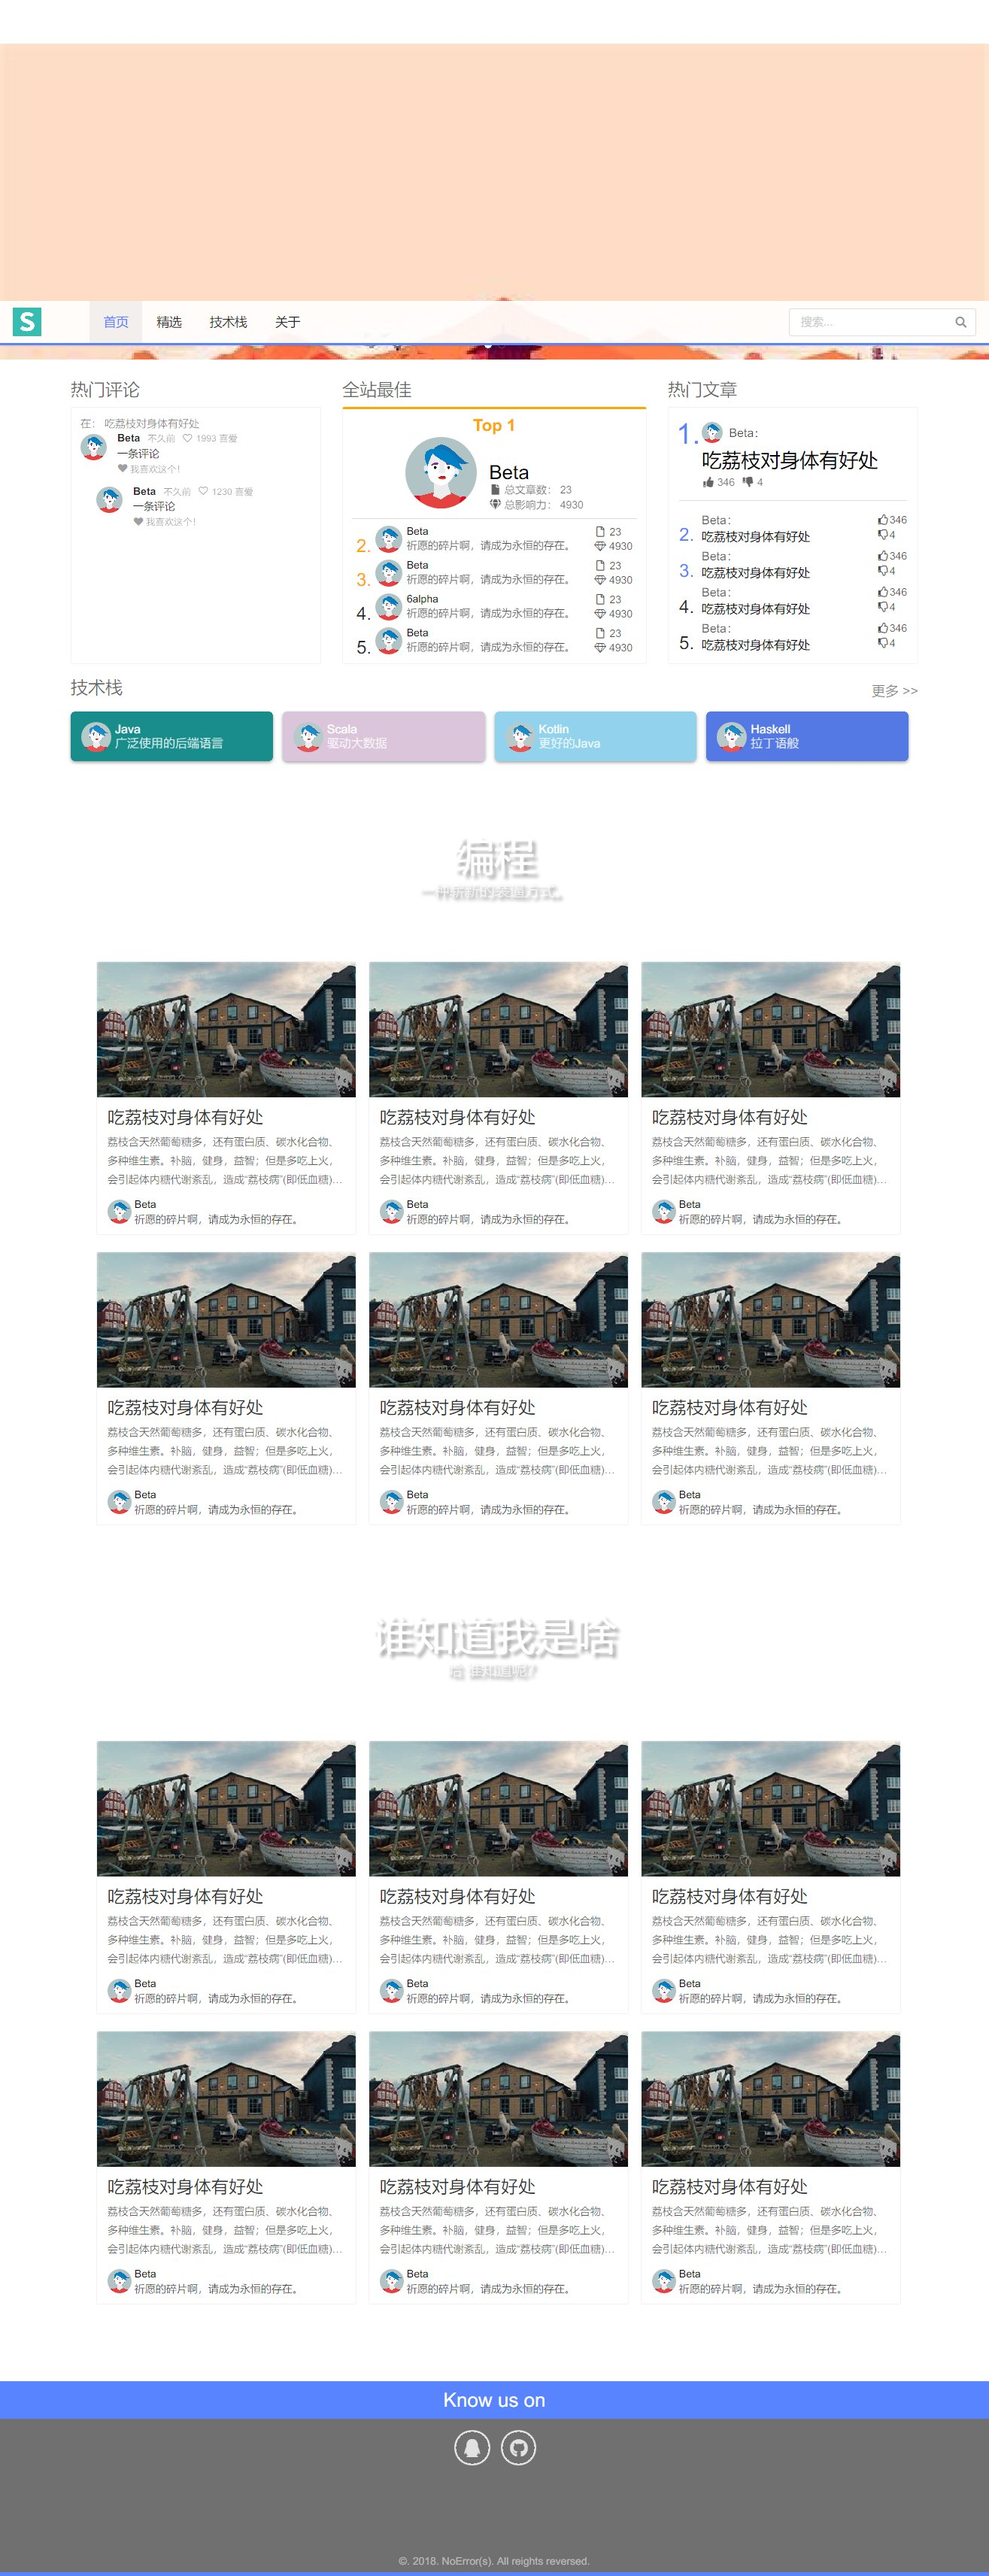
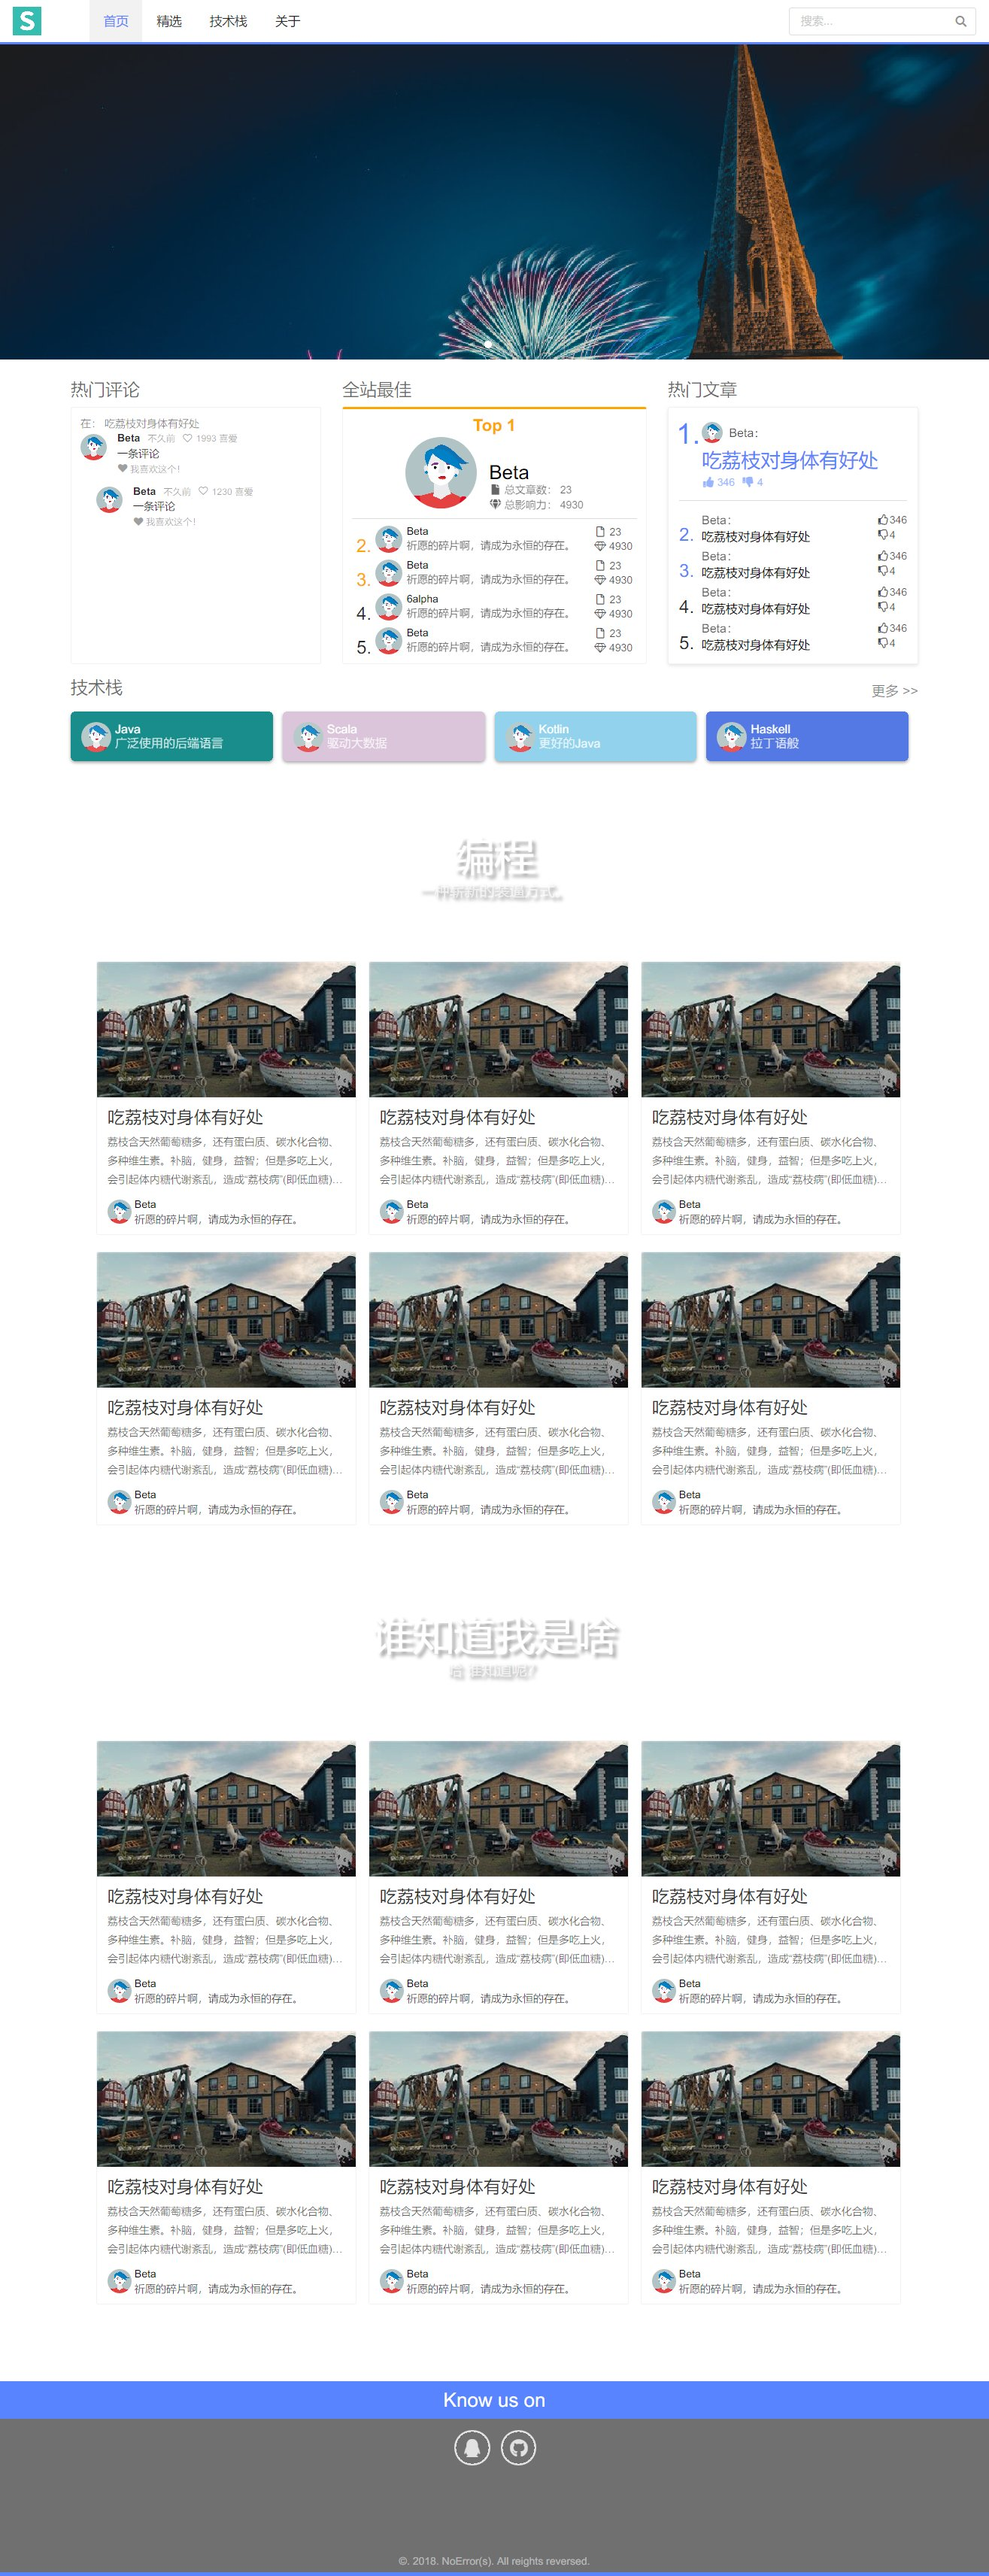
CornerBar呈现完成。

Changed region(s): [[0.0, 0.0, 1.0, 0.1874]]

diff --git a/src/components/CornerBar.vue b/src/components/CornerBar.vue
@@ -1,0 +1,113 @@
+<template>
+  <div class="corner-bar">
+    <div class="ad-switch">
+      <button class="button">
+        <div class="svg">
+          <svg xmlns="http://www.w3.org/2000/svg" width="100%" height="100%" viewBox="0 0 10 10" preserveAspectRatio="none">
+            <path d="M 0 0 L 10 5.2" stroke-width="1.2" />
+          </svg>
+        </div>
+        <span class="text">AD</span>
+      </button>
+    </div>
+    <div class="b2t">
+      <button class="button" data-tooltip="回到顶部" data-inverted="" data-position="left center">
+        <i class="up arrow icon"></i>
+      </button>
+    </div>
+  </div>
+</template>
+
+<style scoped>
+  .corner-bar .ad-switch .button .text {
+    width: 40px;
+    font-weight: 600;
+  }
+
+  .corner-bar .ad-switch .button .svg {
+    position: absolute;
+    top: 26px;
+    left: 12px;
+    height: 20px;
+    width: 20px;
+    overflow: hidden;
+    display: none;
+    opacity: .7;
+  }
+
+  .corner-bar .ad-switch .button .svg svg {
+    stroke: black
+  }
+
+  .corner-bar>div>button {
+    height: 44px;
+    width: 44px;
+  }
+
+  .corner-bar {
+    position: fixed;
+    bottom: 12px;
+    right: 12px;
+    z-index: 400;
+  }
+
+  .corner-bar button {
+    opacity: .7;
+    margin-top: 10px;
+    background-color: white;
+    border: none;
+    border-radius: 4px;
+    box-shadow: 0 2px 6px 0 hsla(0, 0%, 0%, 0.4);
+    overflow: hidden;
+  }
+
+  .corner-bar button * {
+    margin-left: auto;
+    margin-right: auto;
+  }
+
+  .corner-bar button:hover {
+    opacity: 1;
+    color: var(--theme-color);
+    background-color: white;
+    cursor: pointer;
+    box-shadow: 0 2px 6px 0 hsla(0, 0%, 0%, 0.4);
+  }
+
+  .corner-bar .b2t {
+    display: none
+  }
+
+</style>
+
+<script>
+  export default {
+    mounted: function () {
+      let b2t = $('.corner-bar .b2t')
+      let adSwitch = $('.corner-bar .ad-switch')
+      adSwitch.mouseenter(function () {
+        $('.corner-bar .ad-switch .button .svg svg').css('stroke', 'var(--theme-color)')
+      })
+      adSwitch.mouseleave(function () {
+        $('.corner-bar .ad-switch .button .svg svg').css('stroke', 'black')
+      })
+      adSwitch.click(function () {
+        $('.corner-bar .ad-switch .button .svg').show()
+      })
+      b2t.click(function () {
+        $('html, body').animate({
+          scrollTop: 0
+        }, 600);
+      })
+      $(window).on('scroll', function () {
+        let scrollValue = $(window).scrollTop();
+        if (scrollValue > 600) {
+          b2t.fadeIn();
+        } else {
+          b2t.hide();
+        }
+      });
+    }
+  }
+
+</script>

diff --git a/src/components/Slide.vue b/src/components/Slide.vue
@@ -85,6 +85,9 @@
 
 <script>
   import Swiper from 'swiper'
+  import {
+    immediateFileCommand
+  } from '../../node_modules/_node-notifier@5.2.1@node-notifier/lib/utils';
   export default {
     mounted: function () {
       new Swiper('.swiper-container', {
@@ -120,20 +123,20 @@
     },
     data() {
       let nextSlideId = 0
+      let img = "https://raw.githubusercontent.com/ProgramLeague/website/master/img/kafai-liu-485751-unsplash.jpg"
       return {
         slides: [{
             _key: nextSlideId++,
             slide: {
               articleUid: 9347,
-              img: "https://tse3-mm.cn.bing.net/th?id=OIP.NZyyd7I7K1qof74h9NJiNgHaEo&p=0&o=5&pid=1.1",
+              img: img,
             }
           },
           {
             _key: nextSlideId++,
             slide: {
               articleUid: 12353,
-              img: "https://tse4-mm.cn.bing.net/th?id=OIP.GZZx5Rgf8kLTWHiCxB7yxwHaEK&p=0&o=5&pid=1.1",
-              uid: 12323
+              img: img
             }
           }
         ]

diff --git a/index.html b/index.html
@@ -16,7 +16,6 @@
   <link rel="stylesheet" href="https://cdn.bootcss.com/font-awesome/4.7.0/css/font-awesome.min.css">
   <link rel="stylesheet" href="https://cdn.bootcss.com/semantic-ui/2.3.0/semantic.min.css">
   <link rel="stylesheet" href="https://cdn.bootcss.com/Swiper/4.2.0/css/swiper.min.css">
-  <link rel="stylesheet" href="https://cdn.bootcss.com/animate.css/3.5.2/animate.min.css">
 
   <!-- <link rel="stylesheet" href="https://cdn.jsdelivr.net/npm/glidejs@2.1.0/dist/css/glide.core.min.css">
   <link rel="stylesheet" href="https://cdn.jsdelivr.net/npm/glidejs@2.1.0/dist/css/glide.theme.min.css"> -->

diff --git a/src/router/Home.vue b/src/router/Home.vue
@@ -2,6 +2,7 @@
   <div>
     <NavBar/>
     <Slide/>
+    <CornerBar/>
     <div class="content">
       <div id="header">
         <div class="ui container">
@@ -182,6 +183,7 @@
 
 <script>
   import ADCard from '../components/ADCard'
+  import CornerBar from '../components/CornerBar'
   import TopComments from '../components/TopComments'
   import Slide from '../components/Slide'
   import NavBar from '../components/NavBar'
@@ -199,6 +201,7 @@
     name: 'Home',
     components: {
       ADCard,
+      CornerBar,
       Slide,
       NavBar,
       ArticleCard,
